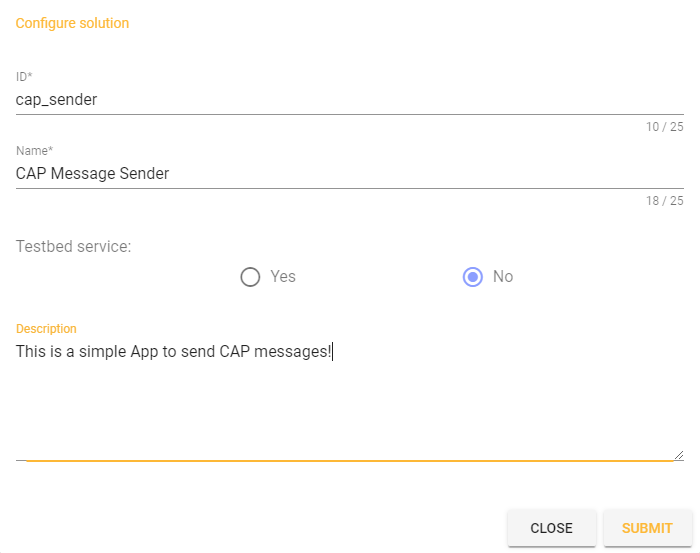
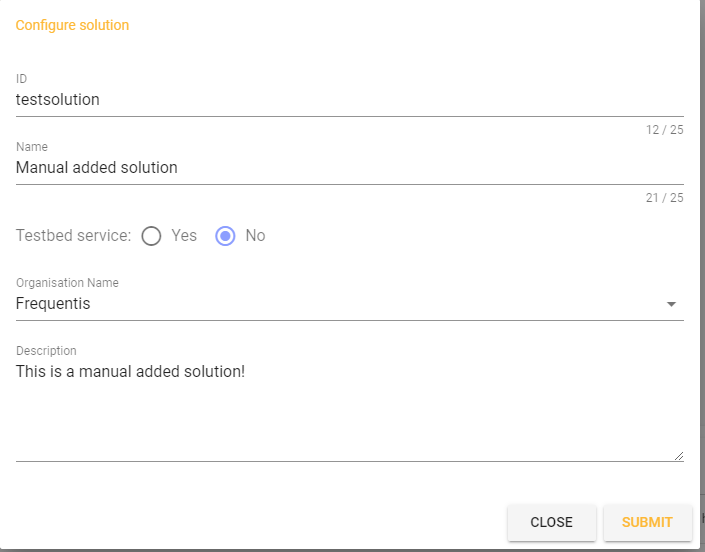
description of new features added new screenshots added

diff --git a/README.md b/README.md
@@ -98,8 +98,19 @@ After calling the Admin tool, it displays all information configured for the tri
 In the client.properties the parameter init.auto defines if the topic creation is done by invoking (either by clicking on the button, or invoking the Rest Endpoint by e.g.: Trial Manager), or if the Admin tool should create all core topics on startup automatically. Be aware, the Kafka has to be up and running before the Admin Service is started.
 
 ## reset DB mode
-In the client.properties the parameter reset.db defines, if the DB tables should be cleaned during startup. If this is set to true, all tables (also the logs) are cleaned and the configuration defined in the json files is stored. 
+In the client.properties the parameter reset.db defines, if the DB tables should be cleaned during startup. If this is set to true, all tables (also the logs) are cleaned and the configuration defined in the json files is stored.
 
+## Drow overview
+To draw an overview picture how the solution are connected to the testbed and on which topics they are subscribe or are allowed to publish
+messages, press the Overview button in the menu. The image is opened in a seperate tab and can also be downloaded
+
+## Choose the active configuration
+In the menu you can find a Configuration button. Pressing the button opens the menu with all availbable configurations. Selecting one will activate the configuration. Solutions, Topics and Gateways are automatically reloaded.
+
+## Choose Testbed mode
+The default Testbed mode is Develop. Meaning the testbed is open, everybody can connect and register for message and can also publish messages. Topics are created on the fly when they are needed. Switching to Authentication means that only those solutions can connect
+that have a valid certificate to connect. Authentication and Authorization means, additionaly to connect via certificate also access to
+topics is granted by the admin tool. Only solutions that are allowed to publish or subscribe can publish or subscribe.
 
 ## Create all topics
 By pressing the "INITIALIZE TESTBED" button (right top in the header) the Admin tool creates all needed core topics and registers the corresponding schemas on them. The status of the topic creation can be seen in the log and by the indicator in the topic.
